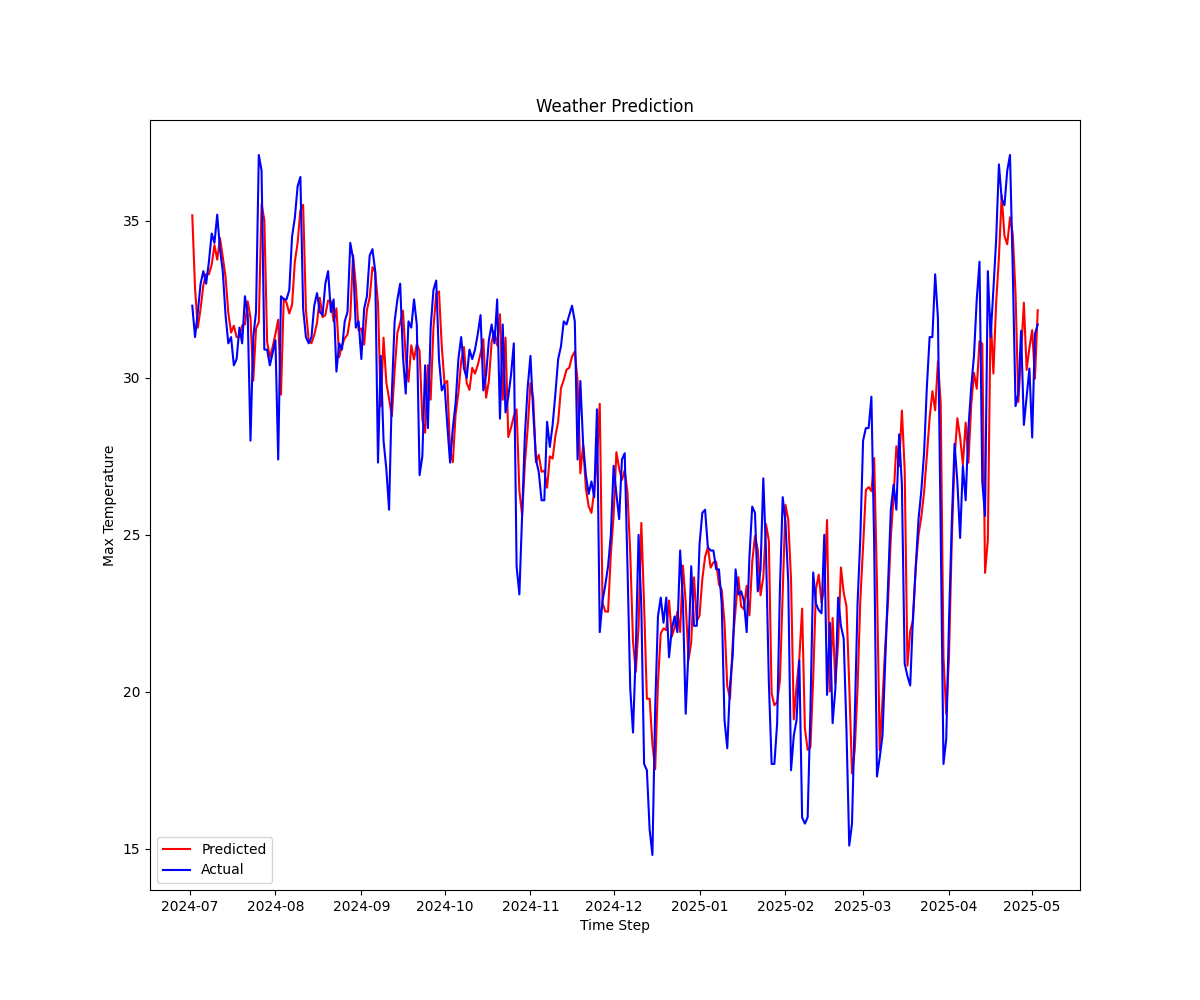
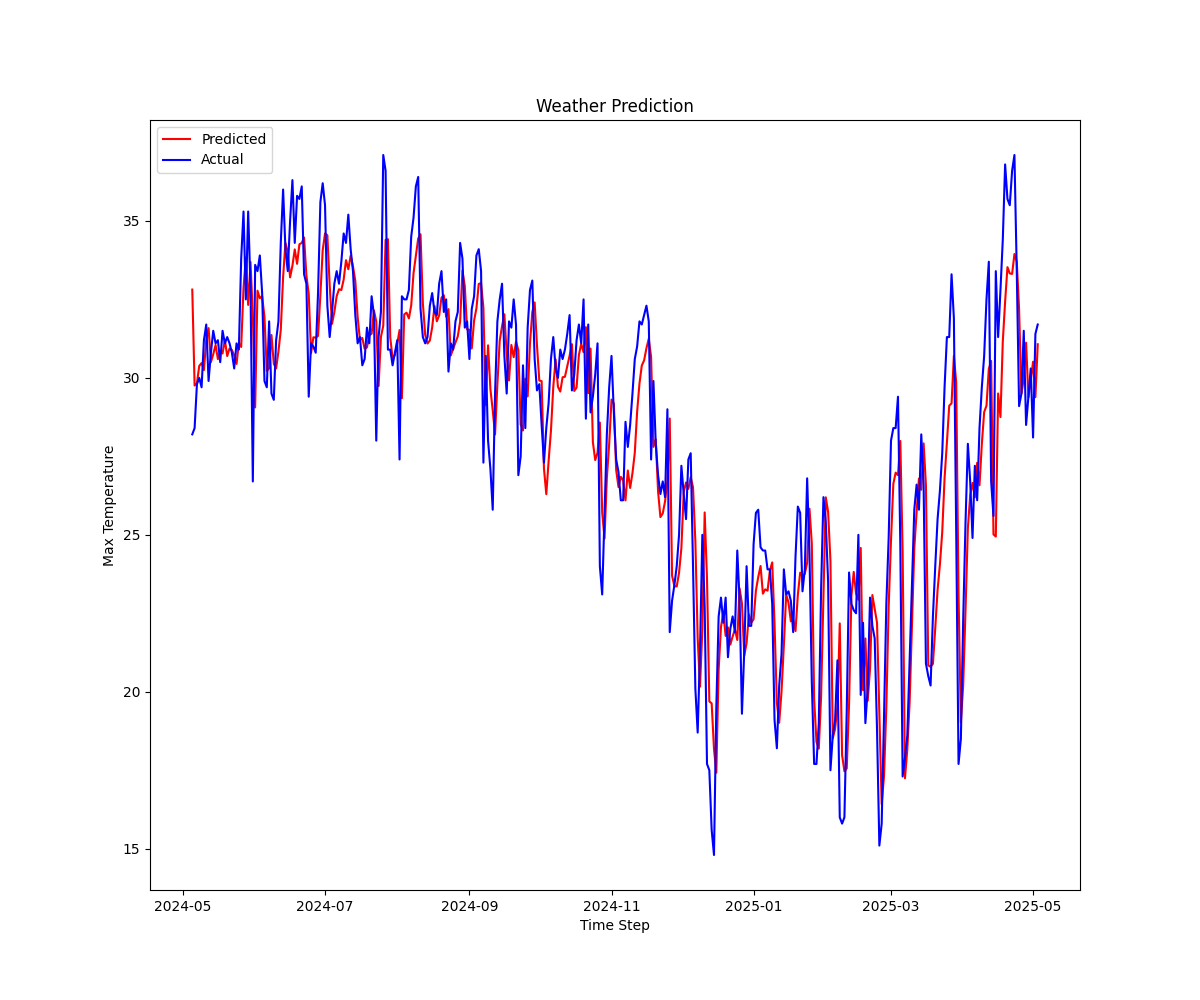
update

diff --git a/src/train.py b/src/train.py
@@ -112,11 +112,11 @@ def train_model(model, train_loader, val_loader, criterion, optimizer, scheduler
         val_losses.append(avg_val_loss)
 
         # Update scheduler (ReduceLROnPlateau)
-        # Step scheduler if using ReduceLROnPlateau
-        if isinstance(scheduler, torch.optim.lr_scheduler.ReduceLROnPlateau):
-            scheduler.step(val_loss)
-        else:
-            scheduler.step()
+        if scheduler is not None:
+            if isinstance(scheduler, torch.optim.lr_scheduler.ReduceLROnPlateau):
+                scheduler.step(val_loss)
+            else:
+                scheduler.step()
 
         epoch_loop.set_postfix(train_loss=avg_train_loss, val_loss=avg_val_loss)
         
@@ -158,96 +158,85 @@ if __name__ == "__main__":
 
     param_lstm = setting.param_lstm
     param_transformer = setting.param_transformer
+    
     # Define hyperparameters
     num_epochs = 150  # Number of epochs to train the model
-    seq_length = 72  # Length of the input sequence
     batch_size = 64  # Batch size for training
     patience = 20  # Early stopping patience
+    
     # Train with daily data
     train_daily_path = setting.train_daily_path
     val_daily_path = setting.val_daily_path
-    scaler = setting.scaler_daily
+    seq_length = 60  # Length of the input sequence
+    train_daily_loader, val_daily_loader = create_dataloader(train_daily_path, val_daily_path, seq_length, batch_size)
+    num_training_daily_steps = len(train_daily_loader) * num_epochs
     path_daily_image = setting.images_daily_path
-    
-    train_loader, val_loader = create_dataloader(train_daily_path, val_daily_path, seq_length, batch_size)
-    num_training_steps = len(train_loader) * num_epochs
-        
-    print(f"Training LSTM model on daily data...")
-    LSTM_model = WeatherLSTM(input_size=param_lstm['input_size'][1],
-                             hidden_size=param_lstm['hidden_size'], 
-                             output_size=param_lstm['output_size'][1], 
-                             num_layers=param_lstm['num_layers'], 
-                             dropout=param_lstm['dropout']).to(device)
-    criterion = nn.MSELoss()
-    optimizer = optim.Adam(LSTM_model.parameters(), lr=param_lstm['learning_rate'])
-    scheduler = get_scheduler(
-        name="linear",
-        optimizer=optimizer,
-        num_warmup_steps=int(num_training_steps * 0.1),  # 10% of training steps
-        num_training_steps=num_training_steps,
-    )
-    path_model = 'daily/lstm.pth'
-    train_model(LSTM_model, train_loader, val_loader, criterion, optimizer, scheduler, num_epochs, patience, device, path_model, path_daily_image)
-    
-    print(f"Training Transformer model on daily data...")
-    Transformer_model = WeatherTransformer(input_size=param_transformer['input_size'][1], 
-                                           d_model=param_transformer['d_model'], 
-                                           nhead=param_transformer['num_head'], 
-                                           num_layers=param_transformer['num_layers_transformer'], 
-                                           output_size=param_transformer['output_size'][1], 
-                                           dropout=param_transformer['dropout']).to(device)
-    criterion = nn.MSELoss()
-    optimizer = optim.Adam(Transformer_model.parameters(), lr=param_transformer['learning_rate'])
-    scheduler = get_scheduler(
-        name="linear",
-        optimizer=optimizer,
-        num_warmup_steps=int(num_training_steps * 0.1),  # 10% of training steps
-        num_training_steps=num_training_steps,
-    )
-    path_model = 'daily/transformer.pth'
-    train_model(Transformer_model, train_loader, val_loader, criterion, optimizer, scheduler, num_epochs, patience, device, path_model, path_daily_image)
     
     # Train with hourly data
     train_hourly_path = setting.train_hourly_path
     val_hourly_path = setting.val_hourly_path
-    scaler = setting.scaler_hourly
+    seq_length = 72  # Length of the input sequence
+    train_hourly_loader, val_hourly_loader = create_dataloader(train_hourly_path, val_hourly_path, seq_length, batch_size)
+    num_training_hourly_steps = len(train_hourly_loader) * num_epochs
     path_hourly_image = setting.images_hourly_path
-    
-    train_loader, val_loader = create_dataloader(train_hourly_path, val_hourly_path, seq_length, batch_size)
-    num_training_steps = len(train_loader) * num_epochs
-    
-    print(f"Training LSTM model on hourly data...")
-    LSTM_model = WeatherLSTM(input_size=param_lstm['input_size'][0], 
-                             hidden_size=param_lstm['hidden_size'], 
-                             output_size=param_lstm['output_size'][0], 
-                             num_layers=param_lstm['num_layers'], 
-                             dropout=param_lstm['dropout']).to(device)
+
+        
+    print(f"Training LSTM model on daily data...")
+    LSTM_model = WeatherLSTM(input_size=param_lstm['input_size'][1],
+                            hidden_size=param_lstm['hidden_size'], 
+                            output_size=param_lstm['output_size'][1], 
+                            num_layers=param_lstm['num_layers'], 
+                            dropout=param_lstm['dropout']).to(device)
     criterion = nn.MSELoss()
     optimizer = optim.Adam(LSTM_model.parameters(), lr=param_lstm['learning_rate'])
-    scheduler = get_scheduler(
-        name="linear",
-        optimizer=optimizer,
-        num_warmup_steps=int(num_training_steps * 0.1),  # 10% of training steps
-        num_training_steps=num_training_steps,
-    )
-    path_model = 'hourly/lstm.pth'
-    train_model(LSTM_model, train_loader, val_loader, criterion, optimizer, scheduler, num_epochs, patience, device, path_model, path_hourly_image)
+    scheduler = None
+    path_model = 'daily/lstm.pth'
+    train_model(LSTM_model, train_daily_loader, val_daily_loader, criterion, optimizer, scheduler, num_epochs, patience, device, path_model, path_daily_image)
     
-    print(f"Training Transformer model on hourly data...")
-    Transformer_model = WeatherTransformer(input_size=param_transformer['input_size'][0], 
-                                           d_model=param_transformer['d_model'], 
-                                           nhead=param_transformer['num_head'], 
-                                           num_layers=param_transformer['num_layers_transformer'], 
-                                           output_size=param_transformer['output_size'][0], 
-                                           dropout=param_transformer['dropout']).to(device)
+    print(f"Training Transformer model on daily data...")
+    Transformer_model = WeatherTransformer(input_size=param_transformer['input_size'][1], 
+                                        d_model=param_transformer['d_model'], 
+                                        nhead=param_transformer['num_head'], 
+                                        num_layers=param_transformer['num_layers_transformer'], 
+                                        output_size=param_transformer['output_size'][1], 
+                                        dropout=param_transformer['dropout']).to(device)
     criterion = nn.MSELoss()
     optimizer = optim.Adam(Transformer_model.parameters(), lr=param_transformer['learning_rate'])
     scheduler = get_scheduler(
         name="linear",
         optimizer=optimizer,
-        num_warmup_steps=int(num_training_steps * 0.1),  # 10% of training steps
-        num_training_steps=num_training_steps,
+        num_warmup_steps=int(num_training_daily_steps * 0.1),  # 10% of training steps
+        num_training_steps=num_training_daily_steps,
+    )
+    path_model = 'daily/transformer.pth'
+    train_model(Transformer_model, train_daily_loader, val_daily_loader, criterion, optimizer, scheduler, num_epochs, patience, device, path_model, path_daily_image)
+    
+    print(f"Training LSTM model on hourly data...")
+    LSTM_model = WeatherLSTM(input_size=param_lstm['input_size'][0], 
+                            hidden_size=param_lstm['hidden_size'], 
+                            output_size=param_lstm['output_size'][0], 
+                            num_layers=param_lstm['num_layers'], 
+                            dropout=param_lstm['dropout']).to(device)
+    criterion = nn.MSELoss()
+    optimizer = optim.Adam(LSTM_model.parameters(), lr=param_lstm['learning_rate'])
+    scheduler = None
+    path_model = 'hourly/lstm.pth'
+    train_model(LSTM_model, train_hourly_loader, val_hourly_loader, criterion, optimizer, scheduler, num_epochs, patience, device, path_model, path_hourly_image)
+    
+    print(f"Training Transformer model on hourly data...")
+    Transformer_model = WeatherTransformer(input_size=param_transformer['input_size'][0], 
+                                        d_model=param_transformer['d_model'], 
+                                        nhead=param_transformer['num_head'], 
+                                        num_layers=param_transformer['num_layers_transformer'], 
+                                        output_size=param_transformer['output_size'][0], 
+                                        dropout=param_transformer['dropout']).to(device)
+    criterion = nn.MSELoss()
+    optimizer = optim.Adam(Transformer_model.parameters(), lr=param_transformer['learning_rate'])
+    scheduler = get_scheduler(
+        name="linear",
+        optimizer=optimizer,
+        num_warmup_steps=int(num_training_hourly_steps * 0.1),  # 10% of training steps
+        num_training_steps=num_training_hourly_steps,
     )
     path_model = 'hourly/transformer.pth'
-    train_model(Transformer_model, train_loader, val_loader, criterion, optimizer, scheduler, num_epochs, patience, device, path_model, path_hourly_image)
-    
+    train_model(Transformer_model, train_hourly_loader, val_hourly_loader, criterion, optimizer, scheduler, num_epochs, patience, device, path_model, path_hourly_image)

diff --git a/GUI/streamlit.py b/GUI/streamlit.py
@@ -8,6 +8,7 @@ import pandas as pd
 import numpy as np
 from datetime import datetime
 import plotly.express as px
+import gdown
 
 from src import setting
 from src.model.WeatherLSTM import WeatherLSTM
@@ -108,6 +109,15 @@ st.markdown("</div>", unsafe_allow_html=True)
 
 take_file_input()
 
+def download_model_if_not_exists(file_path, gdrive_id):
+    if not os.path.exists(file_path):
+        print(f"👉 Model chưa có, đang tải từ Google Drive...")
+        url = f'https://drive.google.com/uc?id={gdrive_id}'
+        gdown.download(url, file_path, quiet=False)
+        print("✅ Tải model xong rồi nhé!")
+    else:
+        print("✅ Model đã có sẵn, không cần tải lại.")
+        
 # Kiểm tra xem đã load data sang file new_data.csv chưa
 if os.path.exists('data/new_data.csv'):
     hourly, daily = load_data(scaler_hourly, scaler_daily)
@@ -119,6 +129,10 @@ model = None
 box_model = st.selectbox("Select Model Type", ("Choose one Model", "LSTM", "Transformer"))
 if box_model == "LSTM":
     st.session_state.model = "LSTM"
+    model_path = 'lstm.pth'
+    gdrive_file_id = '1GoZosMc81iXtxxIA-9ecPT0N4bYAEPef'
+
+    download_model_if_not_exists(model_path, gdrive_file_id)
     # model_daily = WeatherLSTM(input_size=input_daily_size, hidden_size=hidden_size, output_size=output_daily_size, num_layers=num_layers, dropout=dropout).to(device)
     # model_daily.load_state_dict(torch.load('src/model/daily/lstm.pth', map_location=device))
     model = WeatherLSTM(input_size=param_lstm['input_size'][0], 
@@ -126,9 +140,14 @@ if box_model == "LSTM":
                         output_size=param_lstm['output_size'][0], 
                         num_layers=param_lstm['num_layers'], 
                         dropout=param_lstm['dropout']).to(device)
-    model.load_state_dict(torch.load('src/model/hourly/lstm.pth', map_location=device))
+    # model.load_state_dict(torch.load('src/model/hourly/lstm.pth', map_location=device))
+    model.load_state_dict(torch.load('lstm.pth', map_location='cpu'))
 elif box_model == "Transformer":
     st.session_state.model = "Transformer"
+    model_path = 'transformer.pth'
+    gdrive_file_id = '1RHCdRiN7qH25ausNjkoZ0pMycgFuNzQR'
+
+    download_model_if_not_exists(model_path, gdrive_file_id)
     # model_daily = WeatherTransformer(input_size=input_daily_size, d_model=d_model, nhead=num_heads, num_layers=num_layers_transformer, output_size=output_daily_size, dropout=dropout).to(device)
     # model_daily.load_state_dict(torch.load('src/model/daily/transformer.pth', map_location=device))
     model = WeatherTransformer(input_size=param_transformer['input_size'][0], 
@@ -137,7 +156,8 @@ elif box_model == "Transformer":
                                num_layers=param_transformer['num_layers_transformer'], 
                                output_size=param_transformer['output_size'][0], 
                                dropout=param_transformer['dropout']).to(device)
-    model.load_state_dict(torch.load('src/model/hourly/transformer.pth', map_location=device))
+    # model.load_state_dict(torch.load('src/model/hourly/transformer.pth', map_location=device))
+    model.load_state_dict(torch.load('transformer.pth', map_location='cpu'))
 else:
     model = None
     

diff --git a/src/test.py b/src/test.py
@@ -185,7 +185,6 @@ def predict_hourly(model, path_model, batch_size, seq_length, device):
 if __name__ == "__main__":
     # Hyperparameters
     batch_size = 64
-    seq_length = 72
     
     param_lstm = setting.param_lstm
     param_transformer = setting.param_transformer
@@ -194,6 +193,7 @@ if __name__ == "__main__":
     print(f"Using device: {device}")
     
     # Predict daily data
+    seq_length = 60
     # LSTM
     print("Predicting daily data with LSTM model...")
     model = WeatherLSTM(input_size=param_lstm['input_size'][1],
@@ -210,8 +210,10 @@ if __name__ == "__main__":
                                num_layers=param_transformer['num_layers_transformer'], 
                                output_size=param_transformer['output_size'][1], 
                                dropout=param_transformer['dropout']).to(device)    
-    predict_daily(model, './src/model/daily/transformer.pth', batch_size, seq_length, device)
+    # predict_daily(model, './src/model/daily/transformer.pth', batch_size, seq_length, device)
+    predict_daily(model, 'transformer.pth', batch_size, 14, device)
     # Predict hourly data
+    seq_length = 72
     # LSTM
     print("Predicting hourly data with LSTM model...")
     model = WeatherLSTM(input_size=param_lstm['input_size'][0],

diff --git a/src/setting.py b/src/setting.py
@@ -29,11 +29,11 @@ test_size = 0.1
 # Ví dụ param grid cho LSTM
 param_lstm = {
     'input_size': [2, 4],
-    'hidden_size': 128,
+    'hidden_size': 64,
     'output_size': [2, 4],
     'num_layers': 3,
     'dropout': 0.2,
-    'learning_rate': 0.001,
+    'learning_rate': 0.0001,
 }
 
 param_transformer = {

diff --git a/README.md b/README.md
@@ -2,6 +2,8 @@
 
 This project uses two main models — LSTM and Transformer — to predict temperature and humidity. The application is built with Streamlit for easy deployment and interactive visualization.
 
+URL Streamlit Website: https://weatherprediction-demo.streamlit.app
+
 ## Table of Contents
 - [Data Infomation](#data-information)
 - [Installation](#installation)
@@ -17,6 +19,22 @@ This project uses two main models — LSTM and Transformer — to predict temper
 ### Hourly data
 - `temperature_2m (°C)`: Hourly temperature at 2 meters above ground.
 - `precipitation (mm)`: Hourly precipitation.
+## Website infomation
+### Upload data
+Upload your CSV file containing hourly weather data. The file should contain the following columns:
+
+- `time`: Timestamp in ISO8601 format.
+- `temperature_2m (°C)`: Temperature in degrees Celsius.
+- `relative_humidity_2m (%)`: Relative humidity in percentage.
+
+![view](src/image/view.png)
+### Viewer
+![view1](src/image/view1.png)
+<b>You can dowload data predicted.</b>
+
+![view2](src/image/view2.png)
+![view3](src/image/view3.png)
+
 ## Installation
 1. Clone the repository:
 
@@ -36,6 +54,9 @@ To run the Streamlit application, use the following command:
 ```sh
 streamlit run GUI/streamlit.py
 ```
+Local URL: `http://localhost:8501`
+
+Network URL: `http://ip_network:8501`
 ## Model
 - WeatherLSTM
 - WeatherTransformer
@@ -43,14 +64,14 @@ streamlit run GUI/streamlit.py
 ### LSTM Model
 |||`MAE`|`RMSE`|`R2`|
 |-|-|-----|------|----|
-|`Daily`|`Temperature`|2.09°C|2.56°C|0.89|
-||`Relative Humidity`|6.70%|8.26%|0.55|
-|`Hourly`|`Temperature`|2.05°C|2.41°C|0.91|
-||`Relative Humidity`|4.55%|5.39%|0.89|
+|`Daily`|`Temperature`|2.04°C|2.62°C|0.71|
+||`Relative Humidity`|8.15%|10.14%|0.08|
+|`Hourly`|`Temperature`|1.07°C|1.30°C|0.93|
+||`Relative Humidity`|3.77%|4.60%|0.93|
 ### Transformer Model
 |||`MAE`|`RMSE`|`R2`|
 |-|-|-----|------|----|
-|`Daily`|`Temperature`|1.45°C|1.91°C|0.94|
-||`Relative Humidity`|5.42%|6.90%|0.69|
-|`Hourly`|`Temperature`|0.50°C|0.65°C|0.99|
-||`Relative Humidity`|2.13%|2.99%|0.97|
+|`Daily`|`Temperature`|1.03°C|1.42°C|0.91|
+||`Relative Humidity`|4.69%|6.10%|0.65|
+|`Hourly`|`Temperature`|0.38°C|0.54°C|0.99|
+||`Relative Humidity`|2.37%|3.44%|0.96|
